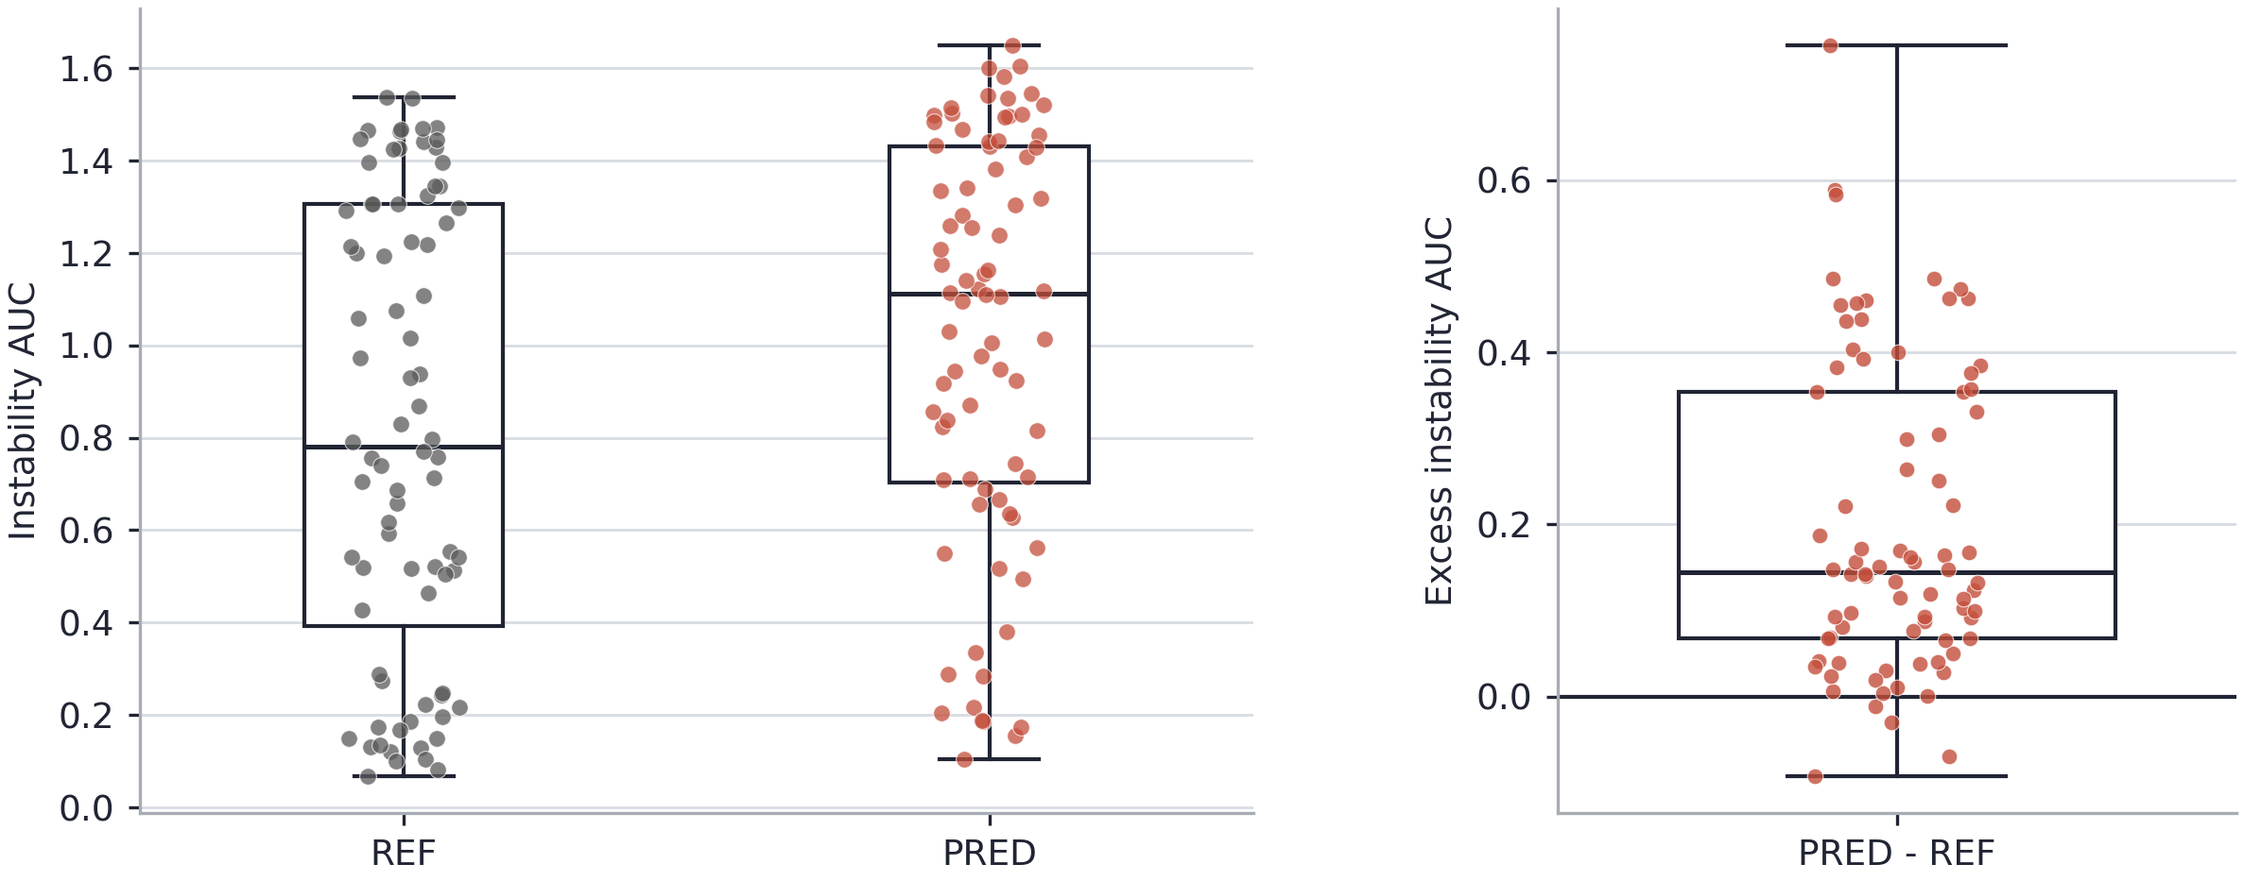
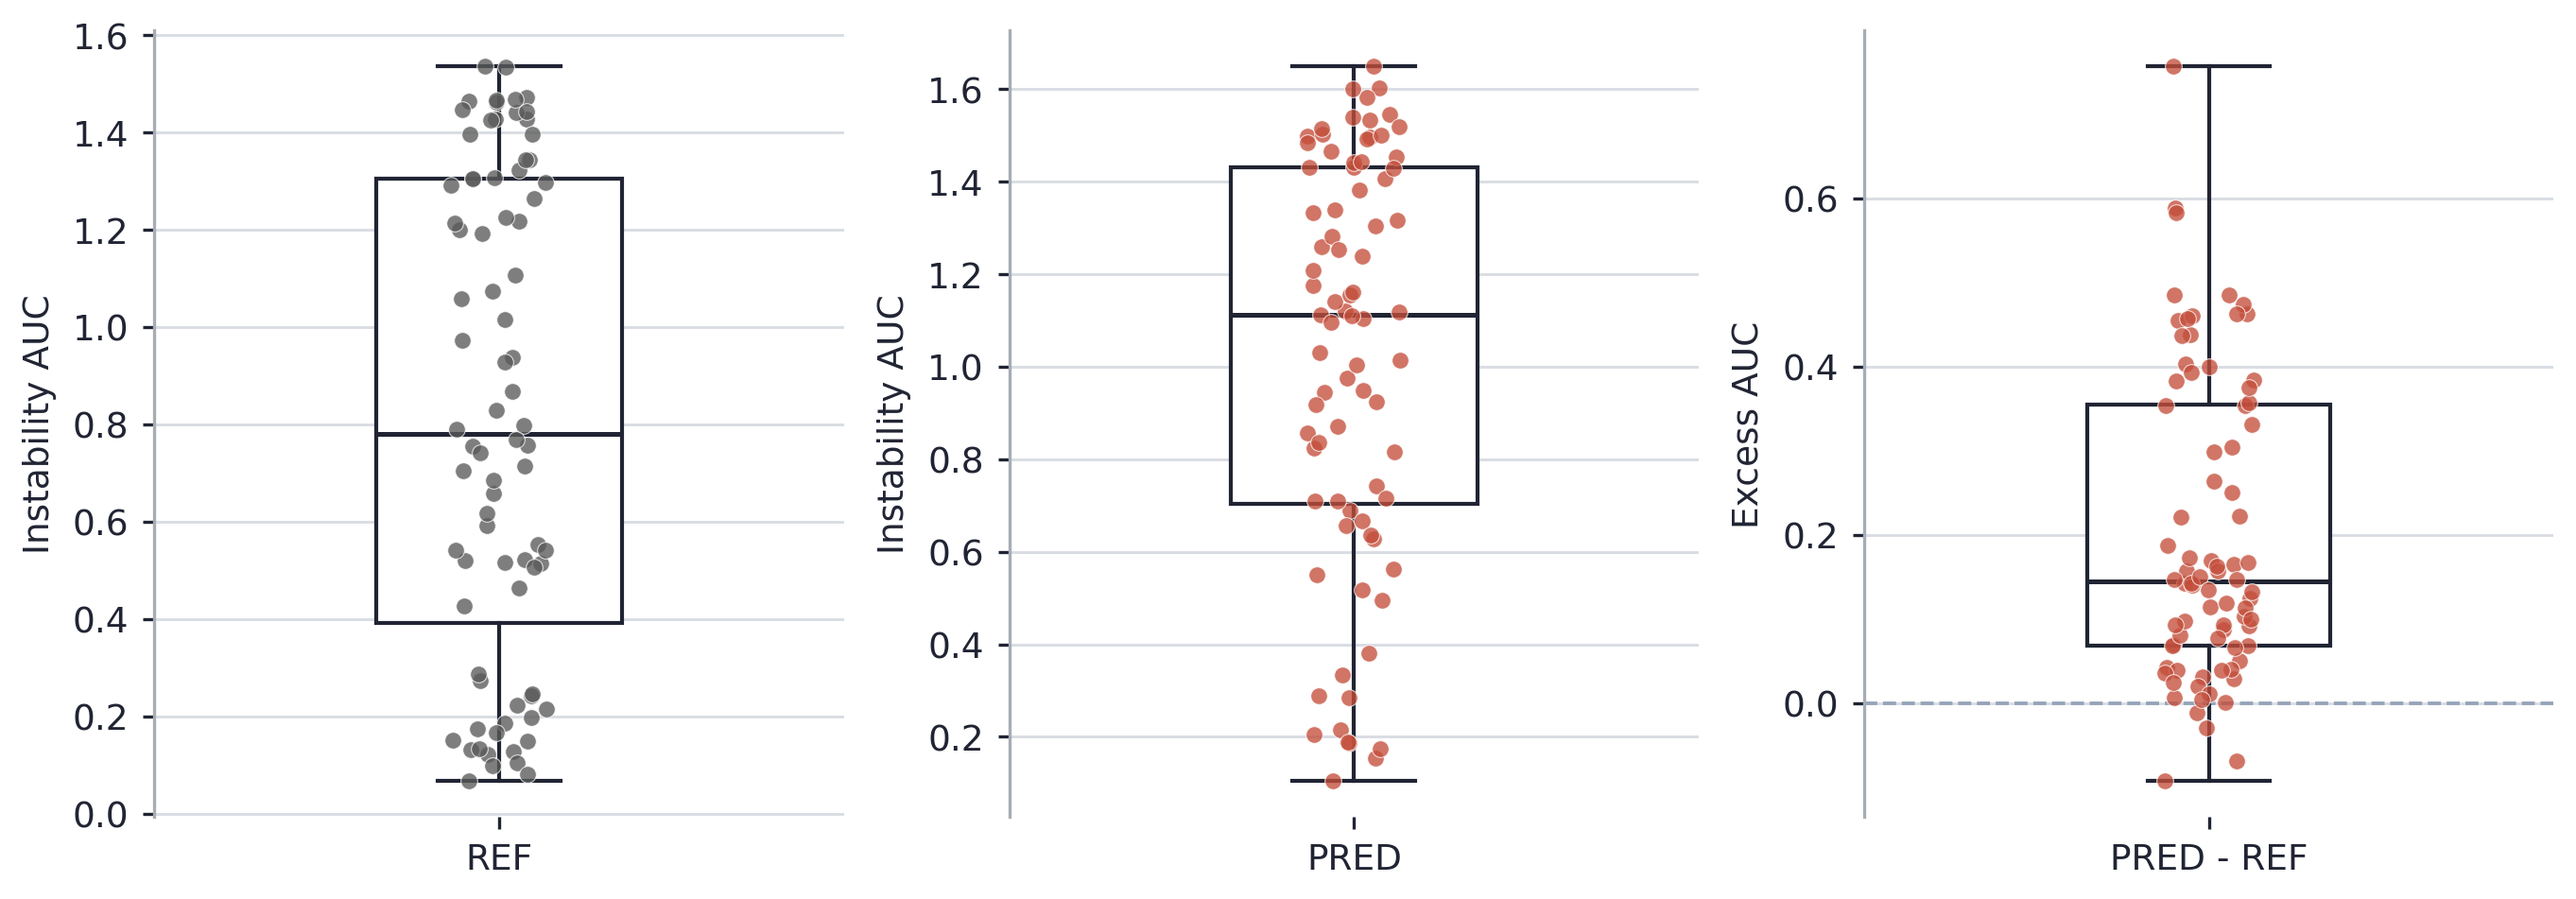
Fix dark line at y=0 in fig4 boxplots
Hide bottom spines on all three panels (spine sat at y=0 in data
coordinates, rendering as a thick dark baseline). Soften the zero
reference line in the excess AUC panel to a light dashed grey.

Changed region(s): [[0.0, 0.0311, 0.9975, 0.9946], [0.6234, 0.2487, 0.6546, 0.3108], [0.5611, 0.4041, 0.5922, 0.4352]]

diff --git a/analysis/make_paper_figures.py b/analysis/make_paper_figures.py
@@ -689,11 +689,12 @@ def fig4_simulation(sim_df: pd.DataFrame) -> str:
             zorder=3,
         )
         if add_zero:
-            axp.axhline(0, color=INK, linewidth=1.0, zorder=1)
+            axp.axhline(0, color="#94a3b8", linewidth=0.9, linestyle="--", zorder=1)
         axp.set_xticks([xpos])
         axp.set_xticklabels([label])
         axp.set_xlim(xpos - x_pad, xpos + x_pad)
         _grid(axp, "y")
+        axp.spines["bottom"].set_visible(False)
 
     _single_box(ax_ref, ref_auc, 1.0, REF_COL, "REF")
     _single_box(ax_pred, pred_auc, 1.0, PRED_COL, "PRED")
